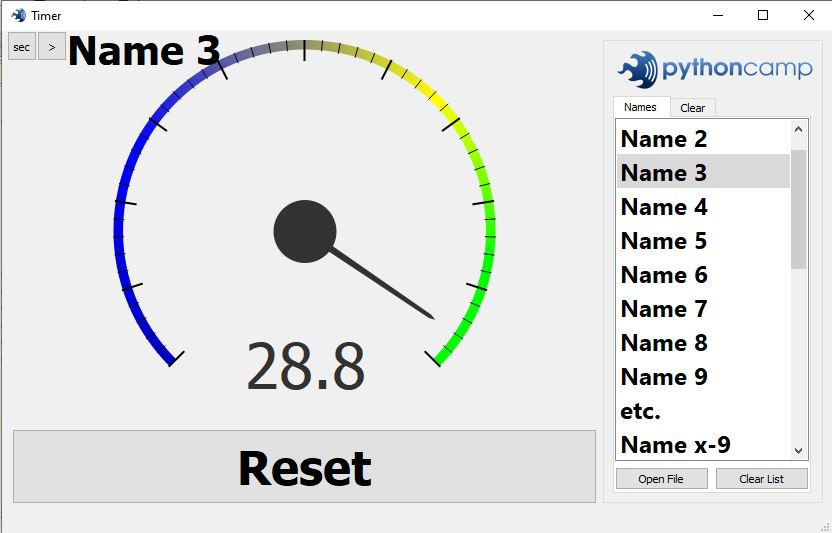
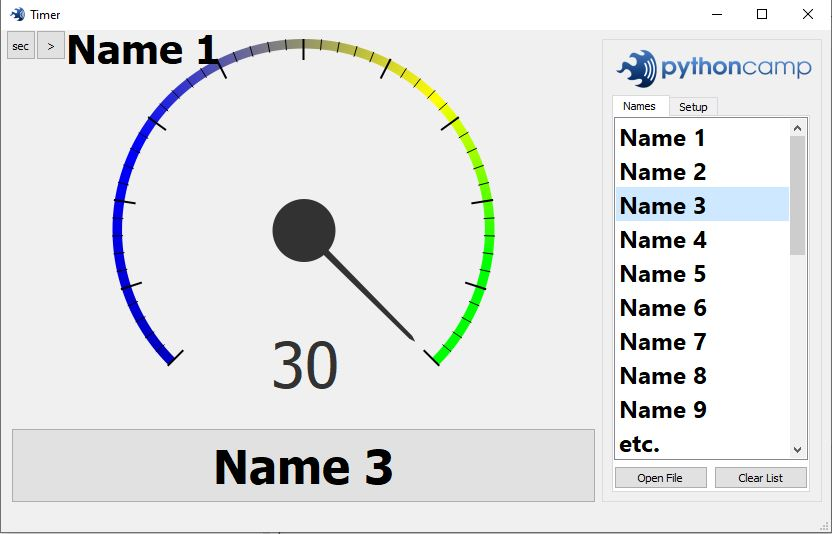
add some display methods and preview images

diff --git a/Timer_Window.py b/Timer_Window.py
@@ -49,11 +49,11 @@ class Ui_MainWindow(object):
         self.groupBox.setObjectName("groupBox")
         self.gridLayout_4 = QtWidgets.QGridLayout(self.groupBox)
         self.gridLayout_4.setObjectName("gridLayout_4")
-        self.label = QtWidgets.QLabel(self.groupBox)
-        self.label.setMinimumSize(QtCore.QSize(200, 40))
-        self.label.setMaximumSize(QtCore.QSize(200, 40))
-        self.label.setObjectName("label")
-        self.gridLayout_4.addWidget(self.label, 0, 0, 1, 1)
+        self.banner = QtWidgets.QLabel(self.groupBox)
+        self.banner.setMinimumSize(QtCore.QSize(200, 40))
+        self.banner.setMaximumSize(QtCore.QSize(200, 40))
+        self.banner.setObjectName("banner")
+        self.gridLayout_4.addWidget(self.banner, 0, 0, 1, 1)
         self.tabWidget = QtWidgets.QTabWidget(self.groupBox)
         self.tabWidget.setEnabled(True)
         sizePolicy = QtWidgets.QSizePolicy(QtWidgets.QSizePolicy.Minimum, QtWidgets.QSizePolicy.Expanding)
@@ -119,7 +119,7 @@ class Ui_MainWindow(object):
         _translate = QtCore.QCoreApplication.translate
         MainWindow.setWindowTitle(_translate("MainWindow", "MainWindow"))
         self.pushButton.setText(_translate("MainWindow", "Start"))
-        self.label.setText(_translate("MainWindow", "label"))
+        self.banner.setText(_translate("MainWindow", "banner"))
         self.pushButton_openfile.setText(_translate("MainWindow", "Open File"))
         self.pushButton_clear.setText(_translate("MainWindow", "Clear List"))
         self.tabWidget.setTabText(self.tabWidget.indexOf(self.names), _translate("MainWindow", "Names"))

diff --git a/Timer.py b/Timer.py
@@ -165,8 +165,8 @@ class mainclass(QMainWindow):
         # add banner image
         self.pixmap = QPixmap('banner.png')
         # self.pixmap = self.pixmap.scaledToWidth(300)
-        self.my_gauge.label.setPixmap(self.pixmap)
-        self.my_gauge.label.setScaledContents(True)
+        self.my_gauge.banner.setPixmap(self.pixmap)
+        self.my_gauge.banner.setScaledContents(True)
 
         self.my_gauge.widget.initial_value_fontsize = 50
 

diff --git a/README.md b/README.md
@@ -2,4 +2,25 @@
 
 ![Preview](img/Preview.JPG)
 
+
 Just run: Start.py
+
+Button functions:
+- **sec** : input neu time / seconds
+- **\>**: show / hide side bar
+- **Open File**: Load new name list. Only *.txt files.
+- **Clear List**: Clear Name list
+
+CheckBox functions:
+- **Switch text: Button <-> Label**: Toggle Display of "Status" / "Selected Name" between "Button" / "Name-Label"
+- **Show Label**: Show/Hide Name-Label
+
+## Show selected Name at Label and button function at pushButton text
+![Preview](img/Preview_setting.JPG)
+
+## Show selected name instead of button function
+![Preview](img/Preview_setting_2.JPG)
+
+## Hidden side bar
+![Preview](img/Preview_setting_3.JPG)
+
